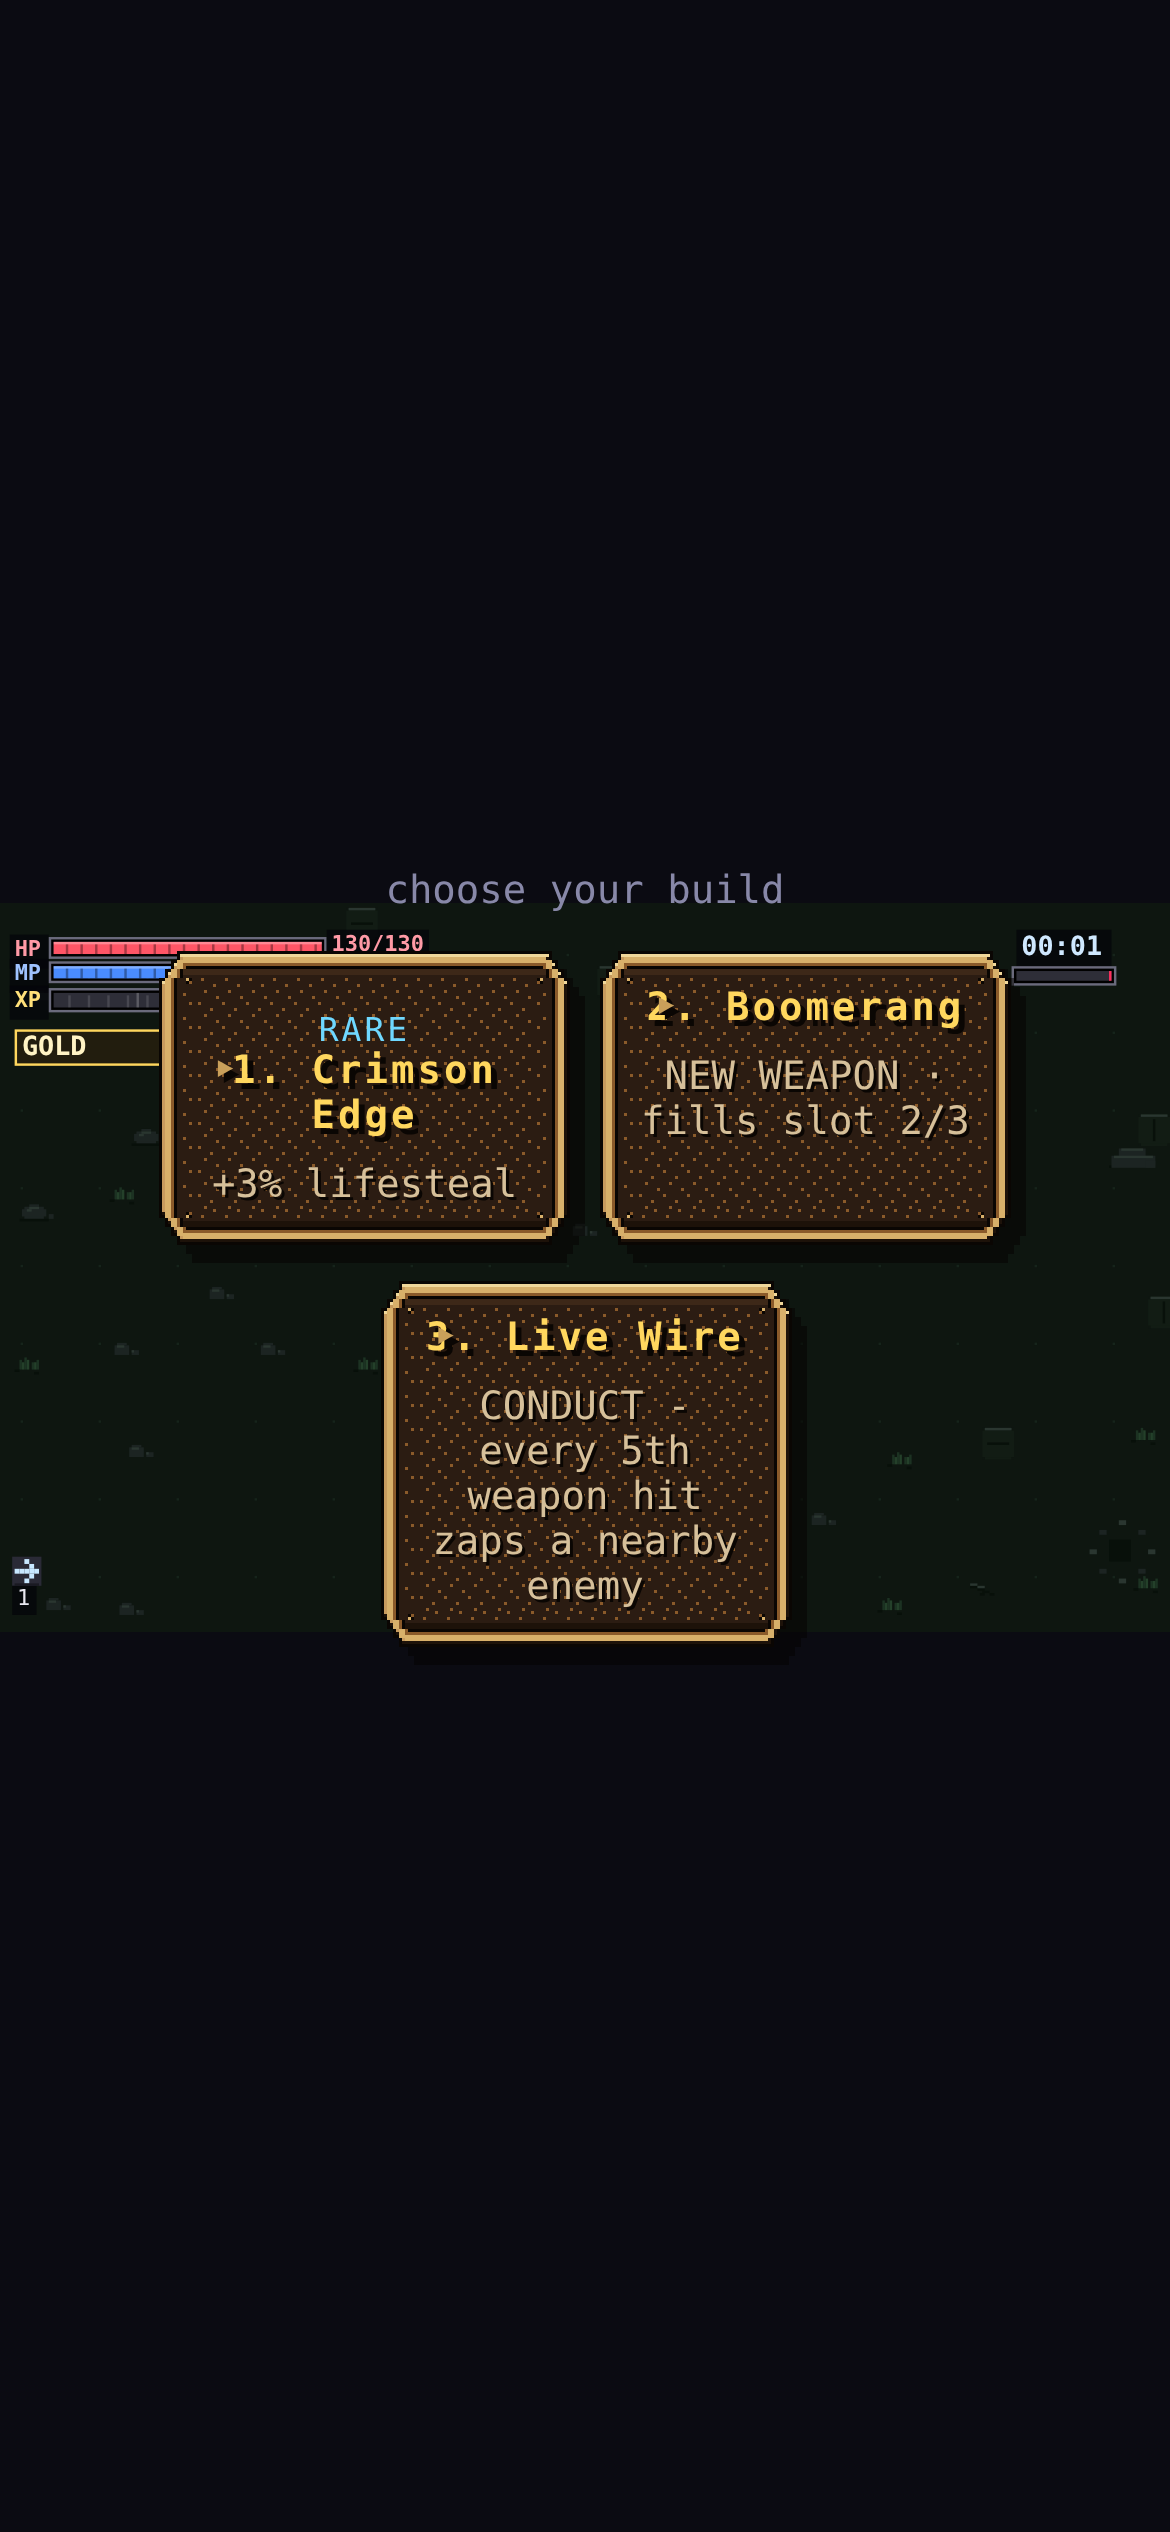
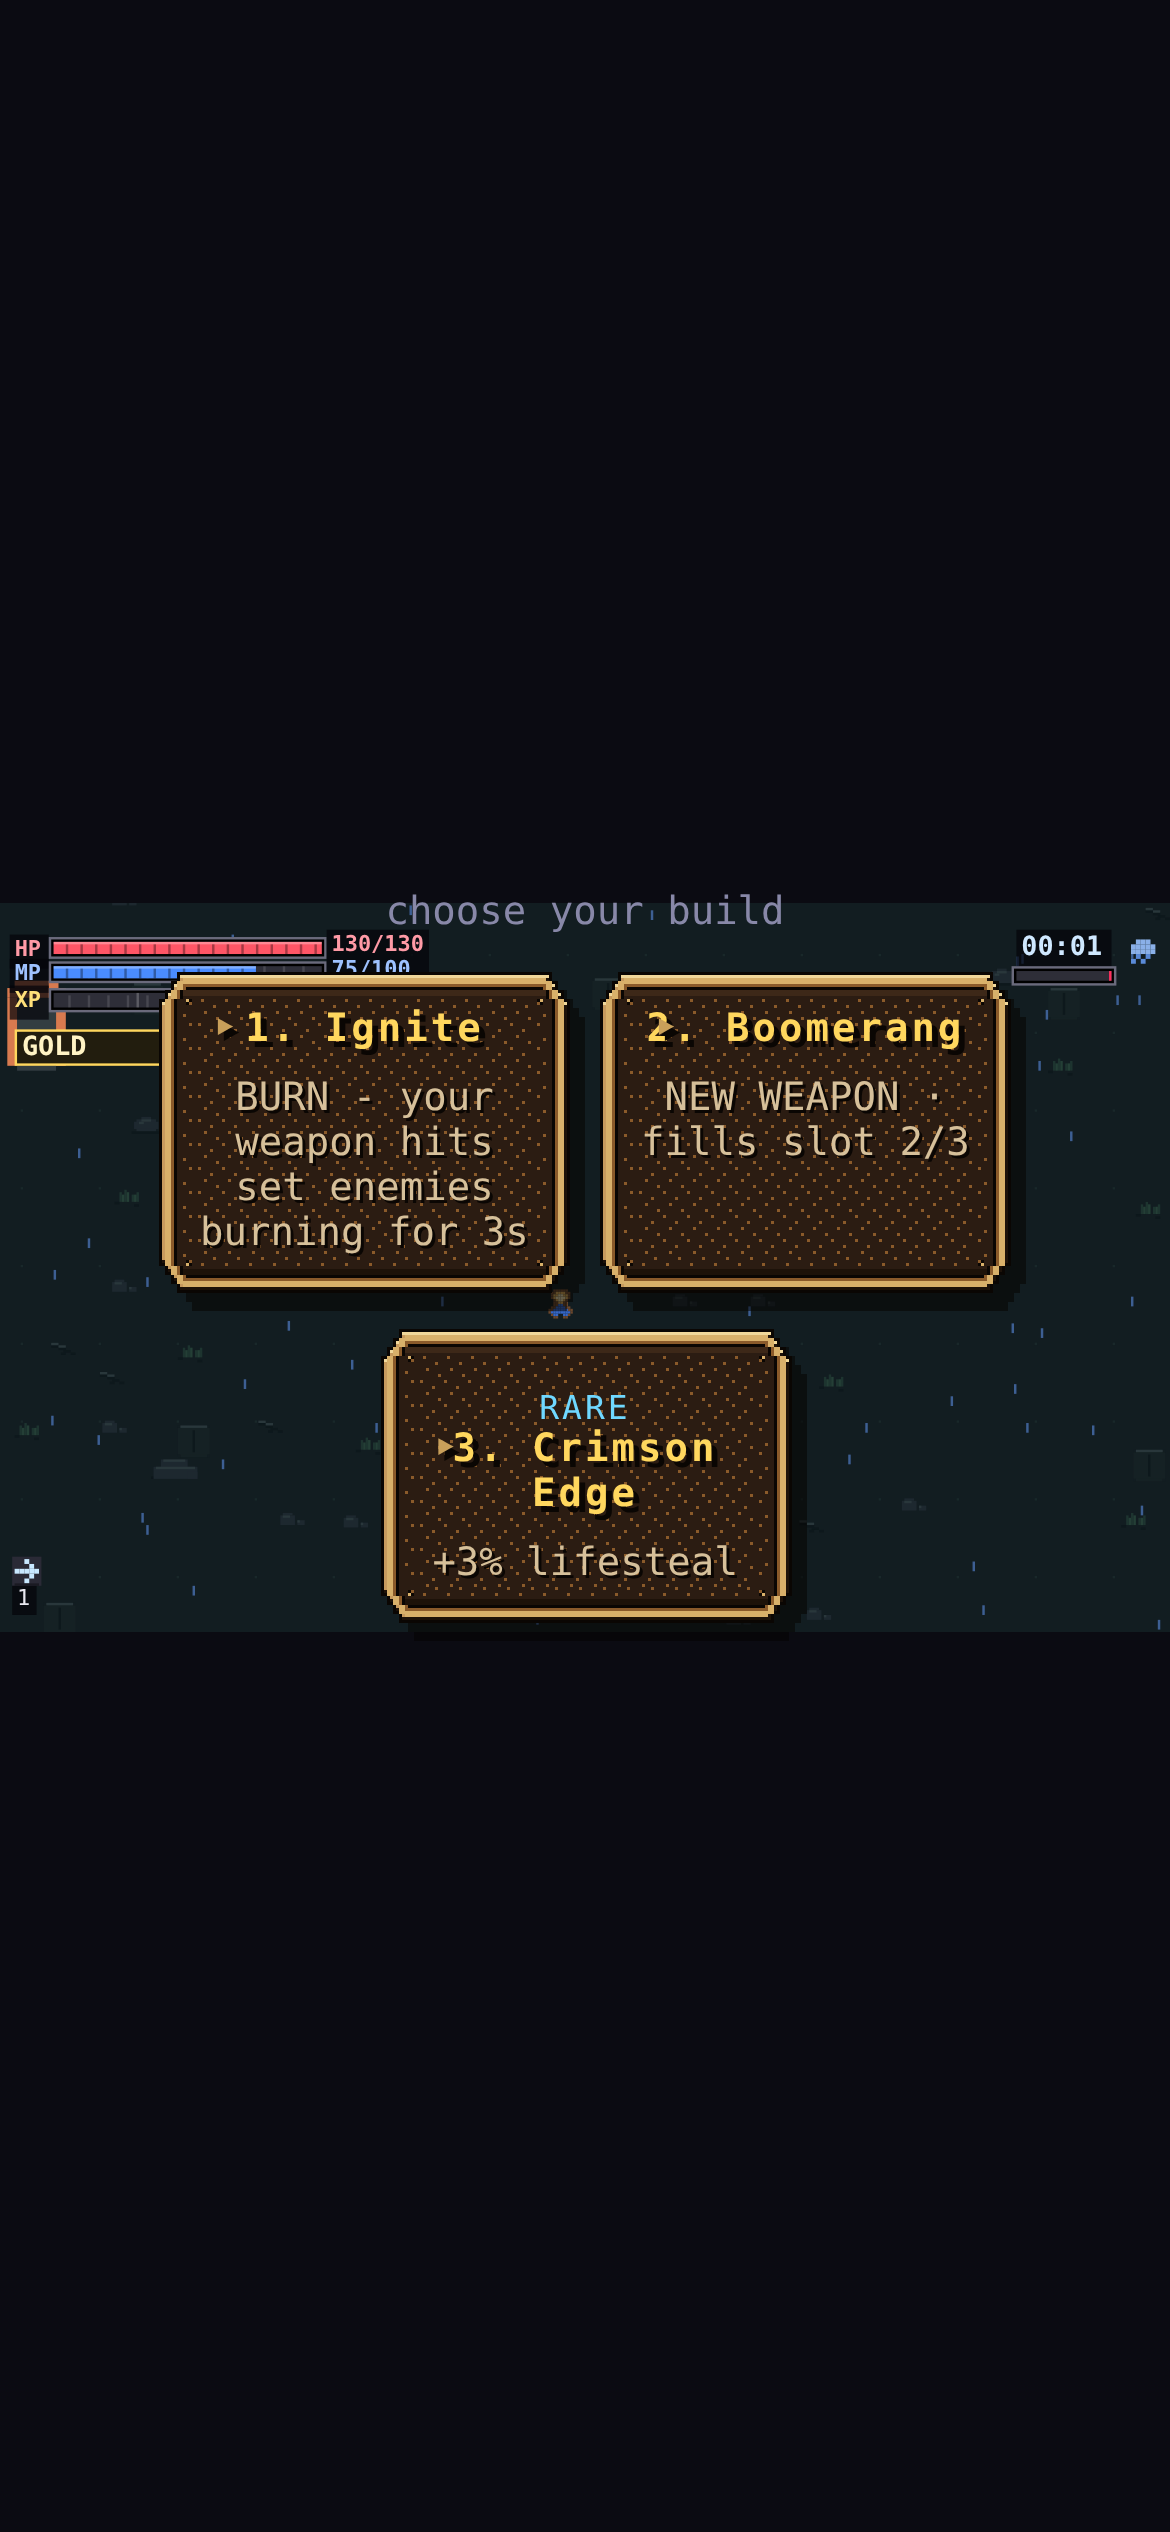
docs(goals): land pilot tick 47 - G21 slice 1 verified on the artifact, slice 2 still quota-blocked
Slices in this commit:
- docs/HORDES_GOALS_2026-09-12.md: correct the G21 status marker (slice 1 is
  DONE, not "IN PROGRESS") and append the TICK 47 report - slice 1 re-measured
  by the pilot itself (suite greenfiles=88 redfiles=0 at d08ba68;
  tools/verify_g21_rewrite_cards.mjs 6/6 PASS in real Chrome 390x844 @dpr3),
  slice 2 not issued because every builder lane is out (kimi 403 weekly,
  glm 429 dated reset 2026-09-15 15:49:58 UTC, claude lane kimi-metered).
- docs/art/browser-verify-2026-09-12/g21-rewrite-draft-phone.png: refreshed
  capture from the tick-47 G21 slice-1 verification run (1170x2532 @dpr3).

Doc-only + artifact; no src change. Suite 88/88, 88/88, 87/88 (smoke.mjs red
once under load, 5/5 green standalone = contention flake).

diff --git a/docs/HORDES_GOALS_2026-09-12.md b/docs/HORDES_GOALS_2026-09-12.md
@@ -2543,7 +2543,7 @@ variety lever in either game. **Never ship a reskin:** players judge maps on mec
 SLICE 2 (`docs/briefs/G21_SLICE2_COMBOS.md`) IS AUTHORED, ITS DISPATCH ANCHOR CHECK WAS EXECUTED IN PLACE on the post-slice-1 tree (all anchors live: pool main.js:2627, weight rewrites.js:141, death pass main.js:1998-2002, burn tick main.js:1752-1760, orbit reads weapons.js:58 + rewrites.js:426/429, skillCooldown perks.js:149; rider call-site checklist re-grepped with verdicts), and the brief sits IN THE REPO ready for a zero-latency issue.
 **THE BUILD LANE IS NOW FULLY DOWN - A HARDER WALL THAN THE 5-HOUR ONE.** Slice 2 was issued as `msg_01M2HFKF5PHJT0XSCQZB36VQTZ` and returned `exit 1` on a DIRECT PROVIDER PROBE TOO: `403 You've reached your weekly (7-day) usage limit` - this is the kimi WEEKLY cap, not the 5-hour window, so it does NOT clear in hours; ZERO tokens were produced and NO slice-2 code exists. Treat that task id as `not started`. The glm lane is not running and its 429 resets at 2026-09-15 15:49:58 UTC; the hub `claude` lane is kimi-metered and returns the same 403. Queue is empty (no stale task will fire when a lane returns). NEXT TICK: PROBE FIRST (~10s); issue the staged slice-2 brief only if a probe answers, otherwise stay silent. TWO LANE FIXES LANDED THIS TICK (worth keeping): `coordinator.env` had its tokens REDACTED to `ah_ses...0a28`-style placeholders AND set no `export`, so every child process saw an empty identity - both fixed (real remy token restored, all vars exported); and this pilot now dispatches with the job's OWN auto-minted identity via `set -a; source ~/.hermes/agent-hub-env/cron_43e72535777a_*.env; set +a` + `hub-worker issue ... --async`, which works regardless of the remy session's health (that identity's token currently resolves as not-found on the hub's participant list).
 
-**G21 — RULE-CHANGING CARDS + A SMALL ACTIVE SET.**  [status: IN PROGRESS 2026-09-14 (SLICE 1) — BRIEF AUTHORED + ANCHOR-VERIFIED, DISPATCH BLOCKED BY A PROVIDER QUOTA WALL, NOT BY THE WORK. **NEXT TICK: RE-ISSUE, DO NOT VERIFY.** Task msg_01M2H2HK5S5D0374TV5PHENFH7 exists in `.hub-worker/logs/` and its spawn line reads `exit 1`, but that exit 1 is a kimi PROVIDER AUTH ERROR, not a build: the task log ends `provider.auth_error: 403 You've reached your 5-hour usage limit` - ZERO tokens were produced and NO G21 code was written. Treat exit 1 on this task id as `not started` and re-issue the SAME brief; do NOT run `verify_g21_rewrite_cards.mjs` (it does not exist) and do NOT mark anything landed. RE-CONFIRMED BY TICK 43 (2026-09-14 23:40 UTC): the wall is STILL up - a direct provider probe (`kimi -p "reply with exactly: PROBE_OK"`) returned the same `403 You've reached your 5-hour usage limit`, so tick 43 dispatched NOTHING (a blind re-issue reproduces exit 1 and adds hub noise, it does not build). TICK 44 (2026-09-15 00:35 UTC) RE-CONFIRMED IT AND ELIMINATED THE LAST CANDIDATE LANE: the hub's `claude` lane (binary `/home/claude/bin/claude`) was probed and returns the SAME kimi 403 (`Failed to authenticate. API Error: 403 {... kimi.com/membership ...}`), because that lane runs the claude CLI against the kimi backend - so kimi and claude share ONE meter, and glm is the only lane with a dated reset (2026-09-15 15:49:58 UTC). Tick 44 still issued NOTHING, the lane queue is still empty, and G21 slice 1 is still NOT STARTED. The lane queue is EMPTY (`hub-worker queue hub` => no output = no pending and no running task), so nothing stale will fire when the quota returns. NEXT TICK: PROBE FIRST (~10s), then re-issue the SAME brief only if the probe answers; if the 403 persists there is NO fallback lane (cli:glm-hordes-g8 retired, quota resets 2026-09-15 15:49:58 UTC) and the queue stays stalled until the owner decides. TICK 45 (2026-09-15 ~01:20 UTC): lanes re-probed with a longer timeout - kimi still `403`; the glm lane gives a DEFINITIVE `429 Weekly/Monthly Limit Exhausted ... reset at 2026-09-15 15:49:58`, so its earlier zero-byte probes were the CLI retrying, not a live lane; the claude lane is kimi-metered. Queue still empty, NOTHING issued. THE ONE THING THAT MOVED THIS TICK: the suite's standing maw FLAKE is FIXED inline by the pilot (test-side, no builder lane needed) - see the TICK 45 note at the end of this doc. TICK 46 (2026-09-15 01:50 UTC): LANES UNSTALLED - a direct kimi probe answered PROBE_OK (the 5-hour window reset overnight), so G21 slice 1 is RE-ISSUED to cli:kimi-hordes-g8 as msg_01M2HC1D0GVMKD2VF9JR4VSGMD on HEAD e22c6d1 CLEAN (M1 committed by the orchestrator; brief anchors re-verified unchanged - main.js:1969-1978, perks.js:145). The glm lane was tried FIRST this tick (worker spawned, task msg_01M2HBEDY8WBFEWWER31QWSVD5) and returned the SAME definitive 429 (reset still 2026-09-15 15:49:58 UTC) - glm worker killed again. GOTCHA WORTH KEEPING: two earlier issue attempts this tick (msg_01M2HBSYMDXTQVP14EBZV7HDQV, msg_01M2HBXAY04GVQSYKAJ21WFV63) were authored AS cli:kimi-hordes-g8 because the pilot exported the kimi worker's own token - a worker SKIPS self-authored messages, so those two are dead letters, never delivered, and the queue reads empty. The pilot MUST source /home/claude/projects/agent-hub/coordinator.env (remy:orchestrator) before `hub-worker issue` - that is how every successful dispatch was authored. Dispatched by the goal-pilot tick on the post-M1 dirty tree (`4d79210`, dirty=16, suite greenfiles=88 redfiles=0), builder lane cli:kimi-hordes-g8 (up, pid 1576690), brief `docs/briefs/G21_RULE_CARDS.md` (authored pre-M1, its executed DISPATCH ANCHOR CHECK + the one corrected anchor are INSIDE it). Slice 1 = the SYSTEM: `REWRITE_SLOTS = 4` finite slots, the empty-slot cooldown incentive, the FROST/CHAIN/ORBIT/BURN/CONDUCT tag taxonomy on the draft desc, and FIVE new cards (RIME/IGNITE/LIVE WIRE/AFTERSHOCK/WIDE ORBIT) through ONE `onWeaponHit` writer + the predicate-offered contract, family share held at ~0.06. Slice 2 (cross-tag combos + the rest of the 12-20) is NOT in this dispatch.] Neither leader has player-triggered actives (VS is
+**G21 — RULE-CHANGING CARDS + A SMALL ACTIVE SET.**  [status: SLICE 1 DONE + PILOT-VERIFIED 2026-09-15 (`d08ba68`, tree clean) — SLICE 2 STILL WALL-BLOCKED. TICK 47 (2026-09-15 03:20 UTC) verified slice 1 ON THE ARTIFACT, not from the builder report: `bash tools/run_suite.sh` => `TREE ... @ d08ba68 | dirty=0`, `SUITE greenfiles=88 redfiles=0`; `node tools/verify_g21_rewrite_cards.mjs` => ALL 6 CHECKS PASSED in real Chrome at 390x844 @dpr3 (real tap start, sim clock asserted ADVANCING past 1.0s, a real tagged card dealt through the REAL openDraft seam after 14 attempts - IGNITE, desc `BURN - your weapon hits set enemies burning for 3s` - desc fully inside the card bounds, PNG 1170x2532 ink=29274 in the card box at [53,324,137,107]). Slice 2 (cross-tag combos + the climb to 14) was DISPATCHED by tick 46's successor as msg_01M2HFKF5PHJT0XSCQZB36VQTZ and died at the provider: the spawn line reads `exit 1` and the task log ends `403 You've reached your weekly (7-day) usage limit` - ZERO tokens, no slice-2 code. That is a NEW and WORSE wall than the 5-hour one: it is the 7-DAY meter, so the reset is not hours away. glm is also out (`429 Weekly/Monthly Limit Exhausted`, reset 2026-09-15 15:49:58 UTC) and the `claude` lane is kimi-metered. Brief `docs/briefs/G21_SLICE2_COMBOS.md` is authored, anchor-checked and STAGED - re-issue it verbatim the first tick a lane answers a probe; do NOT blind re-issue (that reproduces exit 1 and adds hub noise). EARLIER RECORD: BRIEF AUTHORED + ANCHOR-VERIFIED, DISPATCH BLOCKED BY A PROVIDER QUOTA WALL, NOT BY THE WORK. **NEXT TICK: RE-ISSUE, DO NOT VERIFY.** Task msg_01M2H2HK5S5D0374TV5PHENFH7 exists in `.hub-worker/logs/` and its spawn line reads `exit 1`, but that exit 1 is a kimi PROVIDER AUTH ERROR, not a build: the task log ends `provider.auth_error: 403 You've reached your 5-hour usage limit` - ZERO tokens were produced and NO G21 code was written. Treat exit 1 on this task id as `not started` and re-issue the SAME brief; do NOT run `verify_g21_rewrite_cards.mjs` (it does not exist) and do NOT mark anything landed. RE-CONFIRMED BY TICK 43 (2026-09-14 23:40 UTC): the wall is STILL up - a direct provider probe (`kimi -p "reply with exactly: PROBE_OK"`) returned the same `403 You've reached your 5-hour usage limit`, so tick 43 dispatched NOTHING (a blind re-issue reproduces exit 1 and adds hub noise, it does not build). TICK 44 (2026-09-15 00:35 UTC) RE-CONFIRMED IT AND ELIMINATED THE LAST CANDIDATE LANE: the hub's `claude` lane (binary `/home/claude/bin/claude`) was probed and returns the SAME kimi 403 (`Failed to authenticate. API Error: 403 {... kimi.com/membership ...}`), because that lane runs the claude CLI against the kimi backend - so kimi and claude share ONE meter, and glm is the only lane with a dated reset (2026-09-15 15:49:58 UTC). Tick 44 still issued NOTHING, the lane queue is still empty, and G21 slice 1 is still NOT STARTED. The lane queue is EMPTY (`hub-worker queue hub` => no output = no pending and no running task), so nothing stale will fire when the quota returns. NEXT TICK: PROBE FIRST (~10s), then re-issue the SAME brief only if the probe answers; if the 403 persists there is NO fallback lane (cli:glm-hordes-g8 retired, quota resets 2026-09-15 15:49:58 UTC) and the queue stays stalled until the owner decides. TICK 45 (2026-09-15 ~01:20 UTC): lanes re-probed with a longer timeout - kimi still `403`; the glm lane gives a DEFINITIVE `429 Weekly/Monthly Limit Exhausted ... reset at 2026-09-15 15:49:58`, so its earlier zero-byte probes were the CLI retrying, not a live lane; the claude lane is kimi-metered. Queue still empty, NOTHING issued. THE ONE THING THAT MOVED THIS TICK: the suite's standing maw FLAKE is FIXED inline by the pilot (test-side, no builder lane needed) - see the TICK 45 note at the end of this doc. TICK 46 (2026-09-15 01:50 UTC): LANES UNSTALLED - a direct kimi probe answered PROBE_OK (the 5-hour window reset overnight), so G21 slice 1 is RE-ISSUED to cli:kimi-hordes-g8 as msg_01M2HC1D0GVMKD2VF9JR4VSGMD on HEAD e22c6d1 CLEAN (M1 committed by the orchestrator; brief anchors re-verified unchanged - main.js:1969-1978, perks.js:145). The glm lane was tried FIRST this tick (worker spawned, task msg_01M2HBEDY8WBFEWWER31QWSVD5) and returned the SAME definitive 429 (reset still 2026-09-15 15:49:58 UTC) - glm worker killed again. GOTCHA WORTH KEEPING: two earlier issue attempts this tick (msg_01M2HBSYMDXTQVP14EBZV7HDQV, msg_01M2HBXAY04GVQSYKAJ21WFV63) were authored AS cli:kimi-hordes-g8 because the pilot exported the kimi worker's own token - a worker SKIPS self-authored messages, so those two are dead letters, never delivered, and the queue reads empty. The pilot MUST source /home/claude/projects/agent-hub/coordinator.env (remy:orchestrator) before `hub-worker issue` - that is how every successful dispatch was authored. Dispatched by the goal-pilot tick on the post-M1 dirty tree (`4d79210`, dirty=16, suite greenfiles=88 redfiles=0), builder lane cli:kimi-hordes-g8 (up, pid 1576690), brief `docs/briefs/G21_RULE_CARDS.md` (authored pre-M1, its executed DISPATCH ANCHOR CHECK + the one corrected anchor are INSIDE it). Slice 1 = the SYSTEM: `REWRITE_SLOTS = 4` finite slots, the empty-slot cooldown incentive, the FROST/CHAIN/ORBIT/BURN/CONDUCT tag taxonomy on the draft desc, and FIVE new cards (RIME/IGNITE/LIVE WIRE/AFTERSHOCK/WIDE ORBIT) through ONE `onWeaponHit` writer + the predicate-offered contract, family share held at ~0.06. Slice 2 (cross-tag combos + the rest of the 12-20) is NOT in this dispatch.] Neither leader has player-triggered actives (VS is
 100% auto; Megabonk's "abilities" are passive character traits) — so our actives were never the gap. Keep
 3-4 actives on distinct ROLES (CC / burst / mobility / defense) and add **12-20 rule-changing cards** that
 rewrite how abilities behave ("on-kill explosions", "healing also damages nearby enemies", "empty slots
@@ -5596,3 +5596,36 @@ that; whether the AUTO pilot SHOULD close on the maw is an open game-feel questi
 
 **4. On the W7b A/B (the other open measurement):** `/tmp/w7b_ab/on_bad.jsonl` is at **18/24** (was 14/24 at tick 44) - still running, no
 re-dispatch needed. The aggregate is final only at 24/24.
+
+---
+
+## TICK 47 - 2026-09-15 03:20 UTC (goal pilot, subagent:spawnfa) - G21 SLICE 1 VERIFIED ON THE ARTIFACT, NO LANE LEFT TO ISSUE SLICE 2
+
+**What moved:** G21 slice 1 is no longer a builder claim. It is committed (`d08ba68`, tree clean) and the pilot re-measured it
+itself: suite `greenfiles=88 redfiles=0` on that HEAD, and `tools/verify_g21_rewrite_cards.mjs` 6/6 PASS in a real browser at
+390x844 @dpr3 with the sim clock asserted ADVANCING before any measurement. The real draft dealt a real tagged card (IGNITE,
+`BURN - ...`) through the game's own `openDraft`, and the tag-prefixed desc sits fully inside the card bounds. The marker that
+read "IN PROGRESS / nothing verified" was stale and is corrected above.
+
+**What did NOT move, and why:** slice 2 (cross-tag combos, the climb to 14) was issued and died at the provider with
+`403 You've reached your weekly (7-day) usage limit`. This is the 7-DAY meter, not the 5-hour one that cleared overnight at
+tick 46 - so unlike every previous wall, this one has no known reset time and no fallback lane:
+
+- `cli:kimi-hordes-g8` - 403 weekly (10s probe this tick, `kimi -p "reply with exactly: PROBE_OK"`).
+- `cli:glm-hordes-g8` - 429 Weekly/Monthly Exhausted, dated reset **2026-09-15 15:49:58 UTC** (~12.5h from this tick).
+- `claude` lane - kimi-metered, so it shares the dead 7-day meter.
+
+Nothing was issued (a blind re-issue reproduces exit 1). The hub queue reads empty, so nothing stale will fire when a lane
+returns. `docs/briefs/G21_SLICE2_COMBOS.md` is staged and ready to go the moment a probe answers.
+
+**Owner decision needed (one line):** the queue is stalled for at least ~12.5h (glm reset) and possibly days (kimi's 7-day
+window) with no builder lane. Options: (a) wait for the glm reset at 15:49 UTC - it can carry G21 slice 2, hordes is a web
+game and glm is strong there; (b) buy/upgrade kimi quota; (c) point the pilot at a different provider for the builder lane.
+I recommend (a) - no purchase, no new lane, and the pilot's own verification work keeps the tree honest in the meantime.
+
+**GOTCHA FOUND AND FIXED THIS TICK (silent-failure class):** `ahub say` ALSO needs the hub env sourced
+(`set -a; . /home/claude/projects/agent-hub/coordinator.env; set +a`). Without it `offline()` is true, the command prints
+`{"id": "msg_offline", ...}` and **exits 0** - the checkpoint is echoed back, never sent, and nothing anywhere records the
+loss. This tick's first checkpoint was swallowed that way; re-sent with the env and delivered as
+`msg_01M2HH9D5Y3WJPA61JT4MH1J2Z`. Same env requirement as `hub-worker issue`. Exit 0 is NOT evidence a checkpoint landed -
+read the returned id.
